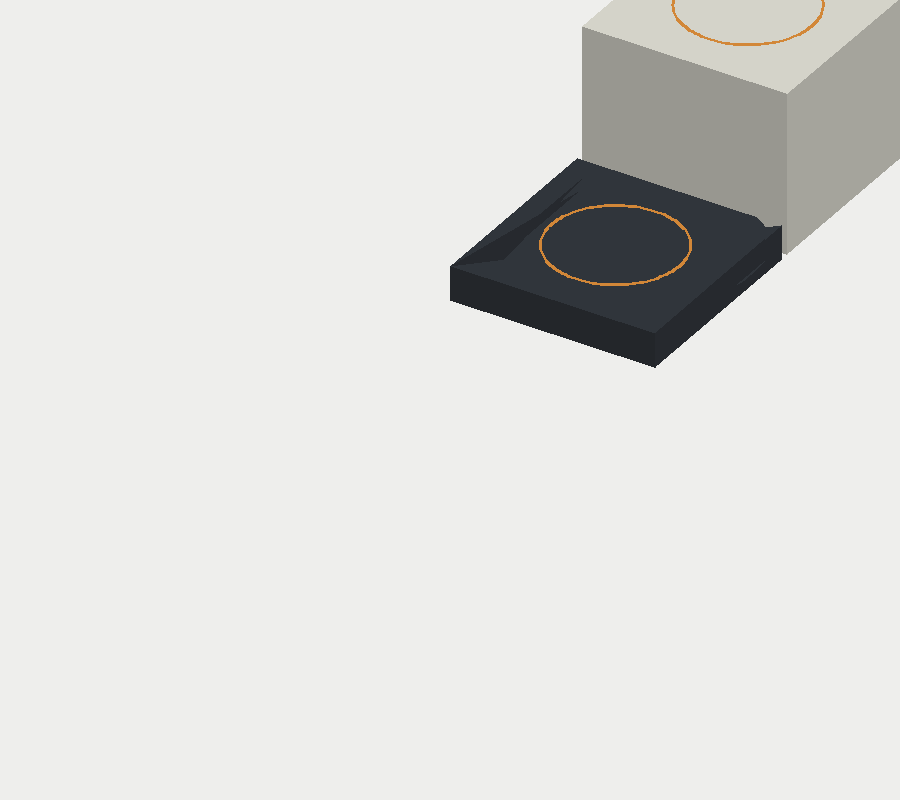
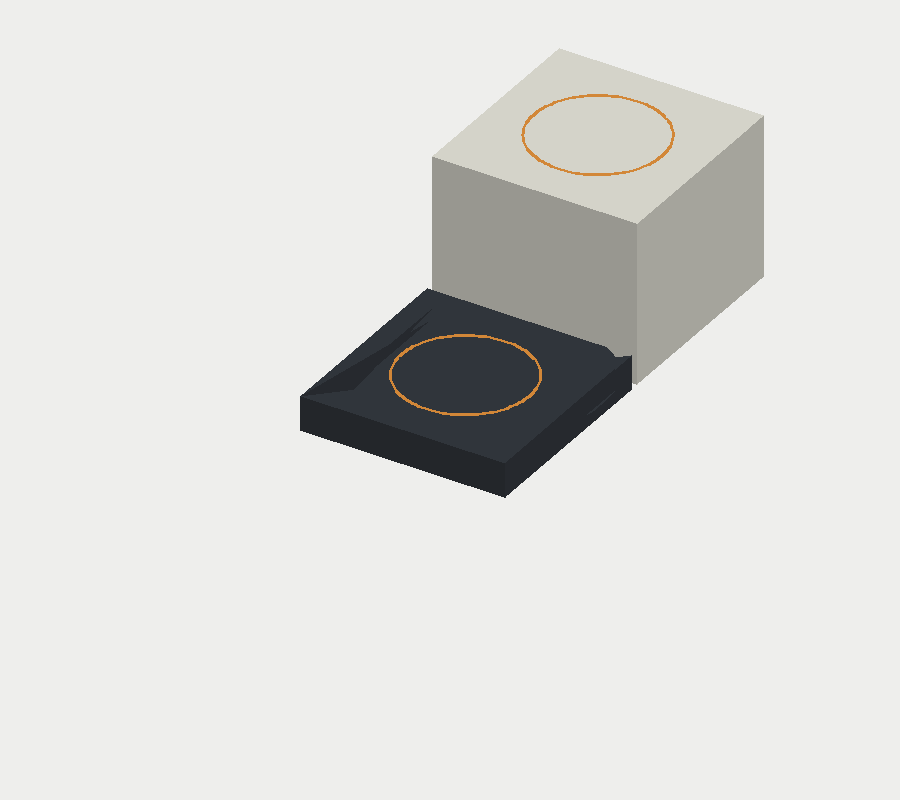
Ajusta enquadramento da prévia do expositor

Changed region(s): [[0.3111, 0.0, 1.0, 0.625]]

diff --git a/models/chibi/generate.py b/models/chibi/generate.py
@@ -80,7 +80,7 @@ for index, shape in enumerate(display_shapes):
         brightness = 0.55 + 0.45 * abs(float(normal @ np.array([0.2, -0.5, 0.84])))
         base = np.array([52, 57, 63]) if index == 0 else np.array([226, 225, 214])
         colour = tuple((base * brightness).astype(int))
-        xy = [(float(p[0] * 5 + 450), float(p[1] * 5 + 300)) for p in triangle]
+        xy = [(float(p[0] * 5 + 300), float(p[1] * 5 + 430)) for p in triangle]
         polygons.append((float(triangle[:, 2].mean()), xy, colour))
 for _, polygon, colour in sorted(polygons, key=lambda item: item[0]):
     draw.polygon(polygon, fill=colour)
@@ -88,7 +88,7 @@ for y_offset, height in ((0, 8), (50, 38)):
     angle = np.linspace(0, 2 * np.pi, 120)
     circle = np.column_stack((24 + 15 * np.cos(angle), y_offset + 24 + 15 * np.sin(angle),
                               np.full_like(angle, height + 0.1))) @ rotation.T
-    draw.line([(float(p[0] * 5 + 450), float(p[1] * 5 + 300)) for p in circle], fill='#d28738', width=3)
+    draw.line([(float(p[0] * 5 + 300), float(p[1] * 5 + 430)) for p in circle], fill='#d28738', width=3)
 image.save(DIRECTORY / 'preview.png')
 (DIRECTORY / 'validation.json').write_text(json.dumps(reports, indent=2) + '\n', encoding='utf-8')
 print(json.dumps(reports))
